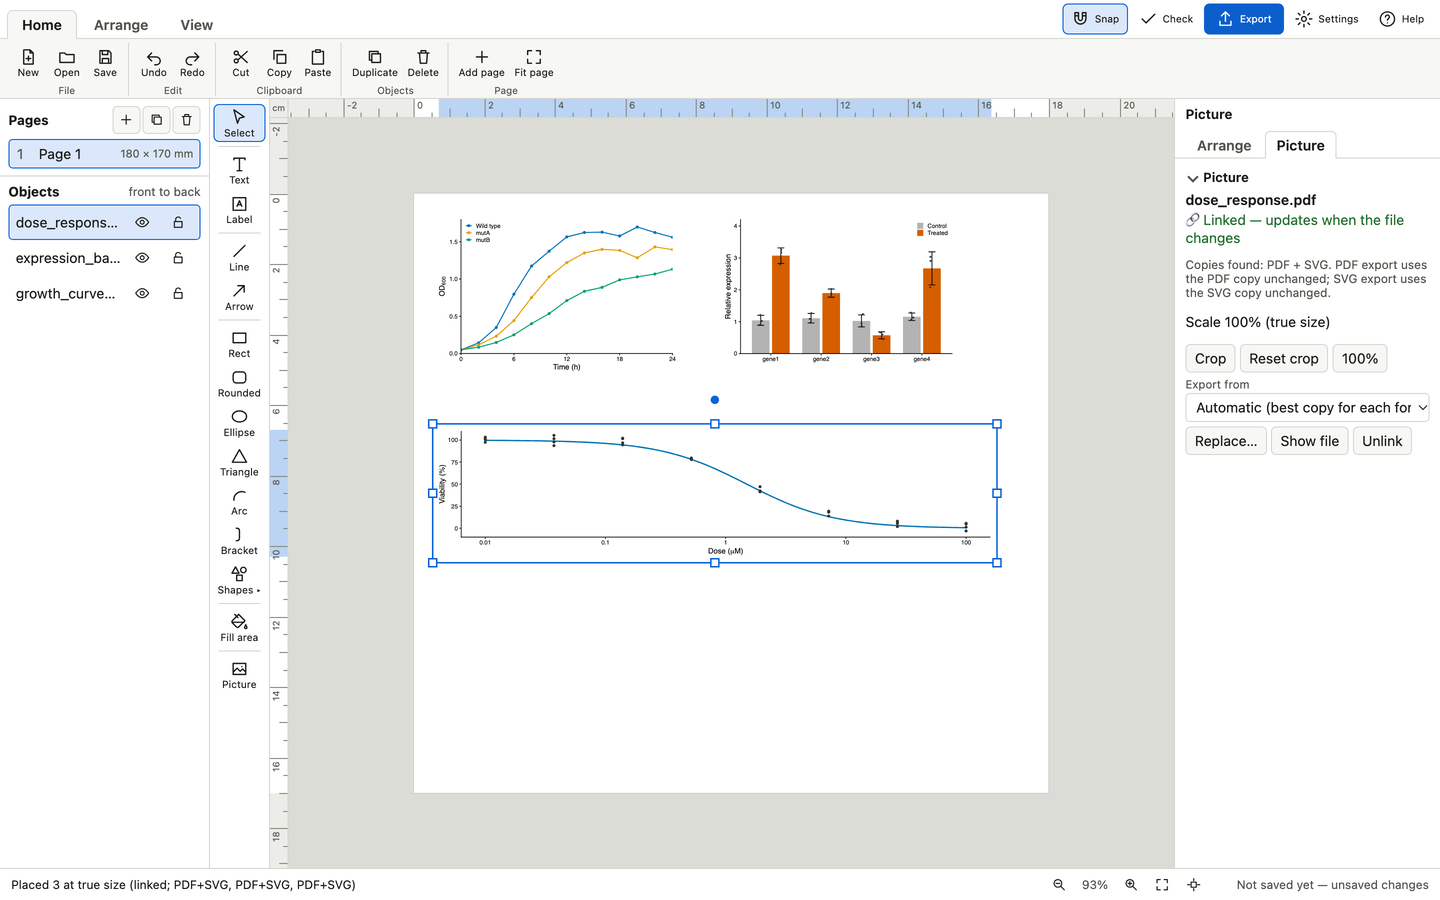
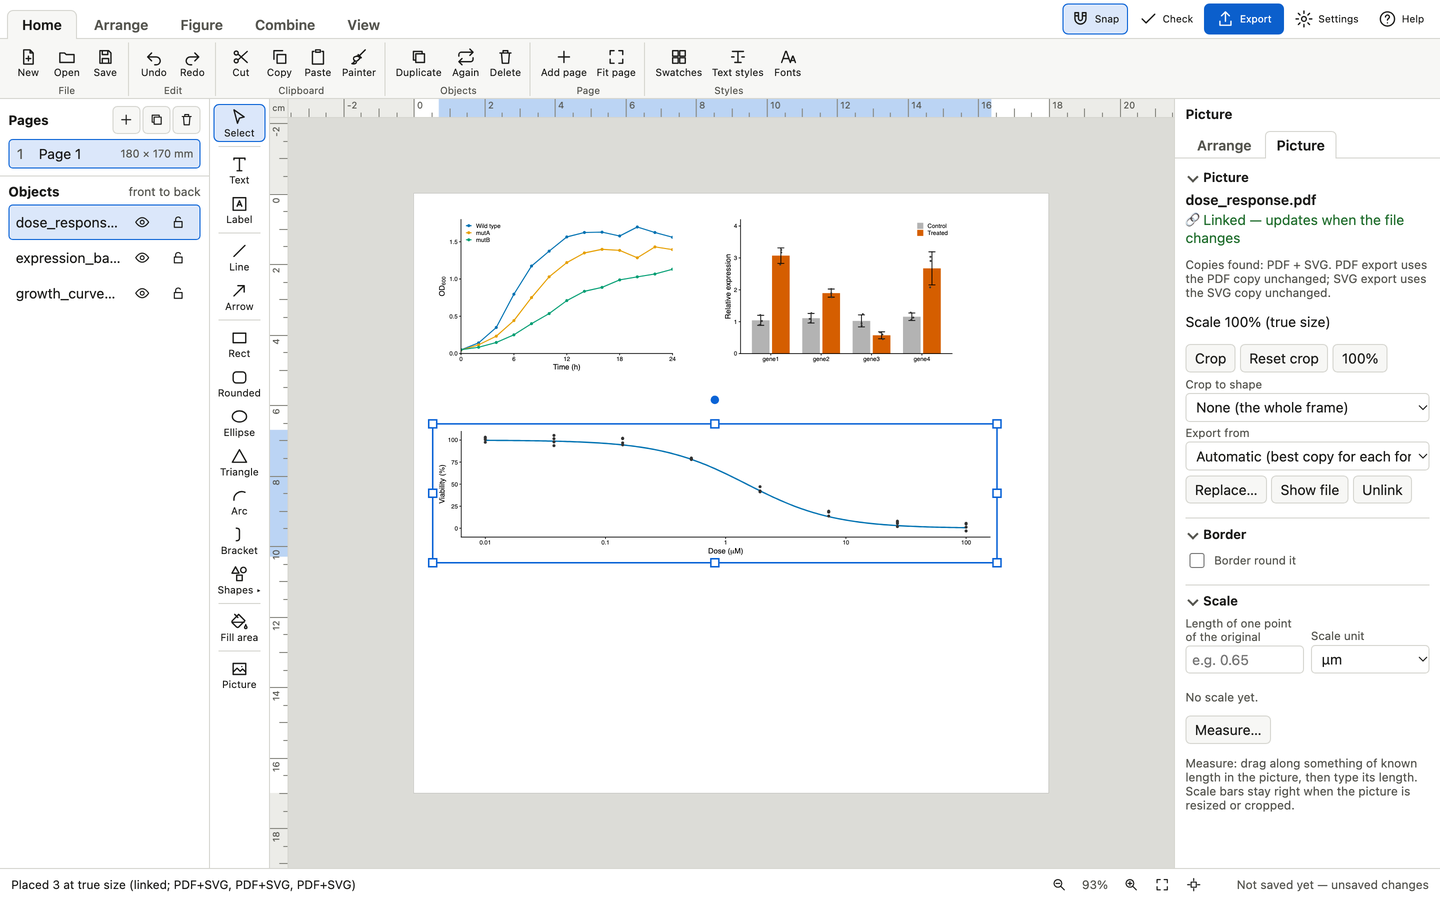
Screenshots for the new ribbon; hex codes fit beside the swatch button
Every documentation screenshot retaken (tools/doc_shots.py): the Home tab
has Painter, Again and a Styles group, and the Figure and Combine tabs are
new. The window tour's first two callouts moved off the new buttons. The
tutorial's tour lists the five tabs, and its "Where next" the new tools.

The swatch button beside each colour had squeezed the hex code until it
was cut off ("#00000…"); the colour well, the button and the code's
padding are a little narrower, so all seven characters show in a
half-width column.

Claude-Session: https://claude.ai/code/session_01FGkWyiSVcQ5H9MTmxdWHjm

diff --git a/figassemble/ui/css/app.css b/figassemble/ui/css/app.css
@@ -235,11 +235,11 @@ body.resizing-panel { cursor: col-resize; user-select: none; }
   background: var(--panel); min-height: 2rem; }
 .field.check { flex-direction: row; align-items: center; gap: 0.45rem; }
 .field.check input { width: 1.1rem; height: 1.1rem; }
-.color-row { display: flex; gap: 0.3rem; align-items: center; min-width: 0; }
-.field.color input[type=color] { flex: 0 0 2.4rem; height: 2rem; padding: 0.1rem; border: 1px solid var(--line);
+.color-row { display: flex; gap: 0.25rem; align-items: center; min-width: 0; }
+.field.color input[type=color] { flex: 0 0 1.9rem; height: 2rem; padding: 0.1rem; border: 1px solid var(--line);
   border-radius: 0.3rem; background: var(--panel); }
-.field.color input.hex { flex: 1; min-width: 0; padding: 0.3rem 0.4rem; border: 1px solid var(--line); border-radius: 0.3rem;
-  background: var(--panel); min-height: 2rem; font-family: ui-monospace, Menlo, Consolas, monospace; font-size: 0.85rem;
+.field.color input.hex { flex: 1; min-width: 0; padding: 0.3rem 0.25rem; border: 1px solid var(--line); border-radius: 0.3rem;
+  background: var(--panel); min-height: 2rem; font-family: ui-monospace, Menlo, Consolas, monospace; font-size: 0.8rem;
   text-transform: uppercase; }
 .with-unit { display: flex; align-items: center; gap: 0.25rem; }
 .with-unit input { flex: 1; min-width: 0; font-variant-numeric: tabular-nums; }
@@ -382,8 +382,8 @@ kbd { font-family: var(--font); border: 1px solid var(--line); border-radius: 0.
 .chip { display: inline-block; width: 0.9rem; height: 0.9rem; border-radius: 0.2rem; border: 1px solid var(--line);
   vertical-align: -0.12rem; margin-right: 0.4rem; }
 .chips .chip { width: 0.6rem; height: 0.8rem; margin: 0 1px 0 0; border-radius: 0.1rem; }
-.swatch-btn { padding: 0.15rem 0.3rem; }
-.swatch-btn svg { width: 1rem; height: 1rem; }
+.swatch-btn { padding: 0.1rem 0.2rem; flex: 0 0 auto; }
+.swatch-btn svg { width: 0.9rem; height: 0.9rem; }
 .swatch-link { font-size: 0.8rem; color: var(--muted, inherit); margin-top: 0.15rem; }
 .swatch-list { list-style: none; padding: 0; margin: 0.3rem 0; }
 .swatch-row { display: flex; align-items: center; gap: 0.5rem; padding: 0.2rem 0; }

diff --git a/tools/doc_shots.py b/tools/doc_shots.py
@@ -32,7 +32,7 @@ SCENES = {
     "swatches": (420, 40, 1020, 880), "isolation": (200, 98, 1180, 640), "cropshape": (420, 98, 1440, 640), "zoominset": (200, 300, 1180, 820), "brackets": (200, 98, 1440, 700),
 }
 # Numbered callouts on the window tour: (x, y) in window pixels, in the order the tutorial lists them
-TOUR = [(248, 22), (588, 62), (1042, 18), (78, 120), (238, 738), (304, 450), (1262, 124), (1038, 884)]
+TOUR = [(412, 22), (838, 62), (1042, 18), (78, 120), (238, 738), (304, 450), (1262, 124), (1038, 884)]
 
 
 def shoot(chrome: str, server_url: str, scene: str, tmp: str) -> str:

diff --git a/docs/tutorial.md b/docs/tutorial.md
@@ -22,8 +22,10 @@ Open FigAssemble. Here's the window with a finished figure in it:
 
 ![The FigAssemble window, numbered](images/window-tour.png)
 
-1. **Tabs**, like PowerPoint's ribbon: **Home** (files, undo, clipboard, pages), **Arrange**
-   (align, distribute, group, order) and **View** (zoom, rulers, grid, guides).
+1. **Tabs**, like PowerPoint's ribbon: **Home** (files, undo, clipboard, pages, swatches and
+   styles), **Arrange** (align, distribute, match sizes, group, order), **Figure** (scale bars,
+   zoom insets, significance brackets), **Combine** (Pathfinder, clipping masks) and **View**
+   (zoom, rulers, grid, guides, colour vision preview).
 2. **The tab's commands**, in labelled groups.
 3. **Always in view:** **Snap** (switches snapping on and off), **Check** (looks for problems
    before exporting), **Export**, **Settings** (units, themes and more) and **Help** (all keyboard
@@ -191,9 +193,11 @@ If FigAssemble ever closes unexpectedly, it offers your unsaved work back the ne
 
 ## Where next
 
-- The **[user guide](guide.md)** covers everything else: cropping pictures, text styles, curved
-  arrows, the Shapes menu, gradient fills, outline types, area fills, guides and the grid,
-  themes, resizing the side panels, opening PowerPoint slides, and all the keyboard shortcuts.
+- The **[user guide](guide.md)** covers everything else: cropping pictures (to a shape too),
+  scale bars, zoom insets, significance brackets, swatches and text styles, copying a style,
+  curved arrows, the Shapes menu, gradient fills, outlines, area fills, combining shapes,
+  clipping masks, editing inside groups, guides and the grid, checking colours for colour-blind
+  readers, themes, opening PowerPoint slides, and all the keyboard shortcuts.
 - Try it with your own figures, and **tell us what's confusing or missing**:
   [report a problem](https://github.com/matthewwdavis/FigAssemble/issues/new?template=problem.yml)
   or [suggest an idea](https://github.com/matthewwdavis/FigAssemble/issues/new?template=idea.yml).
